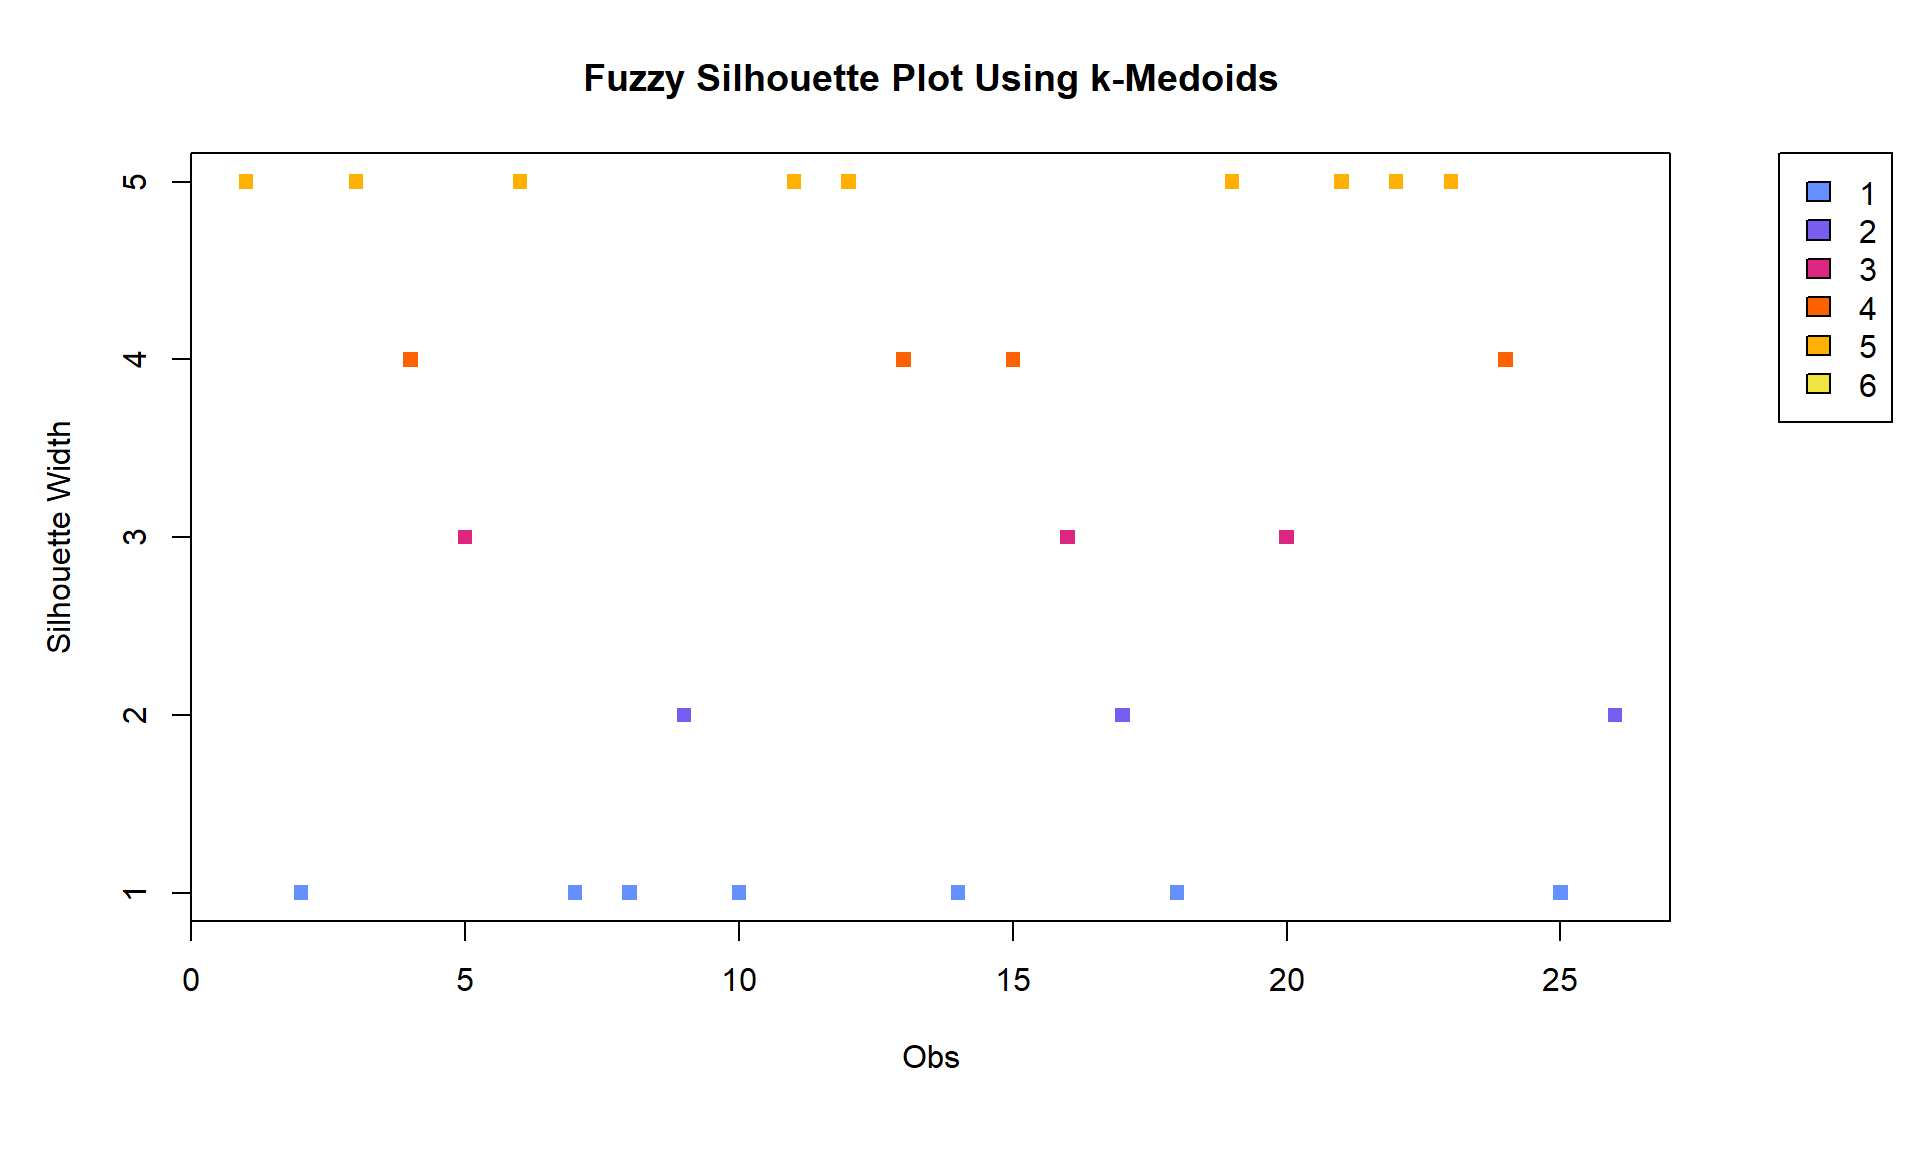
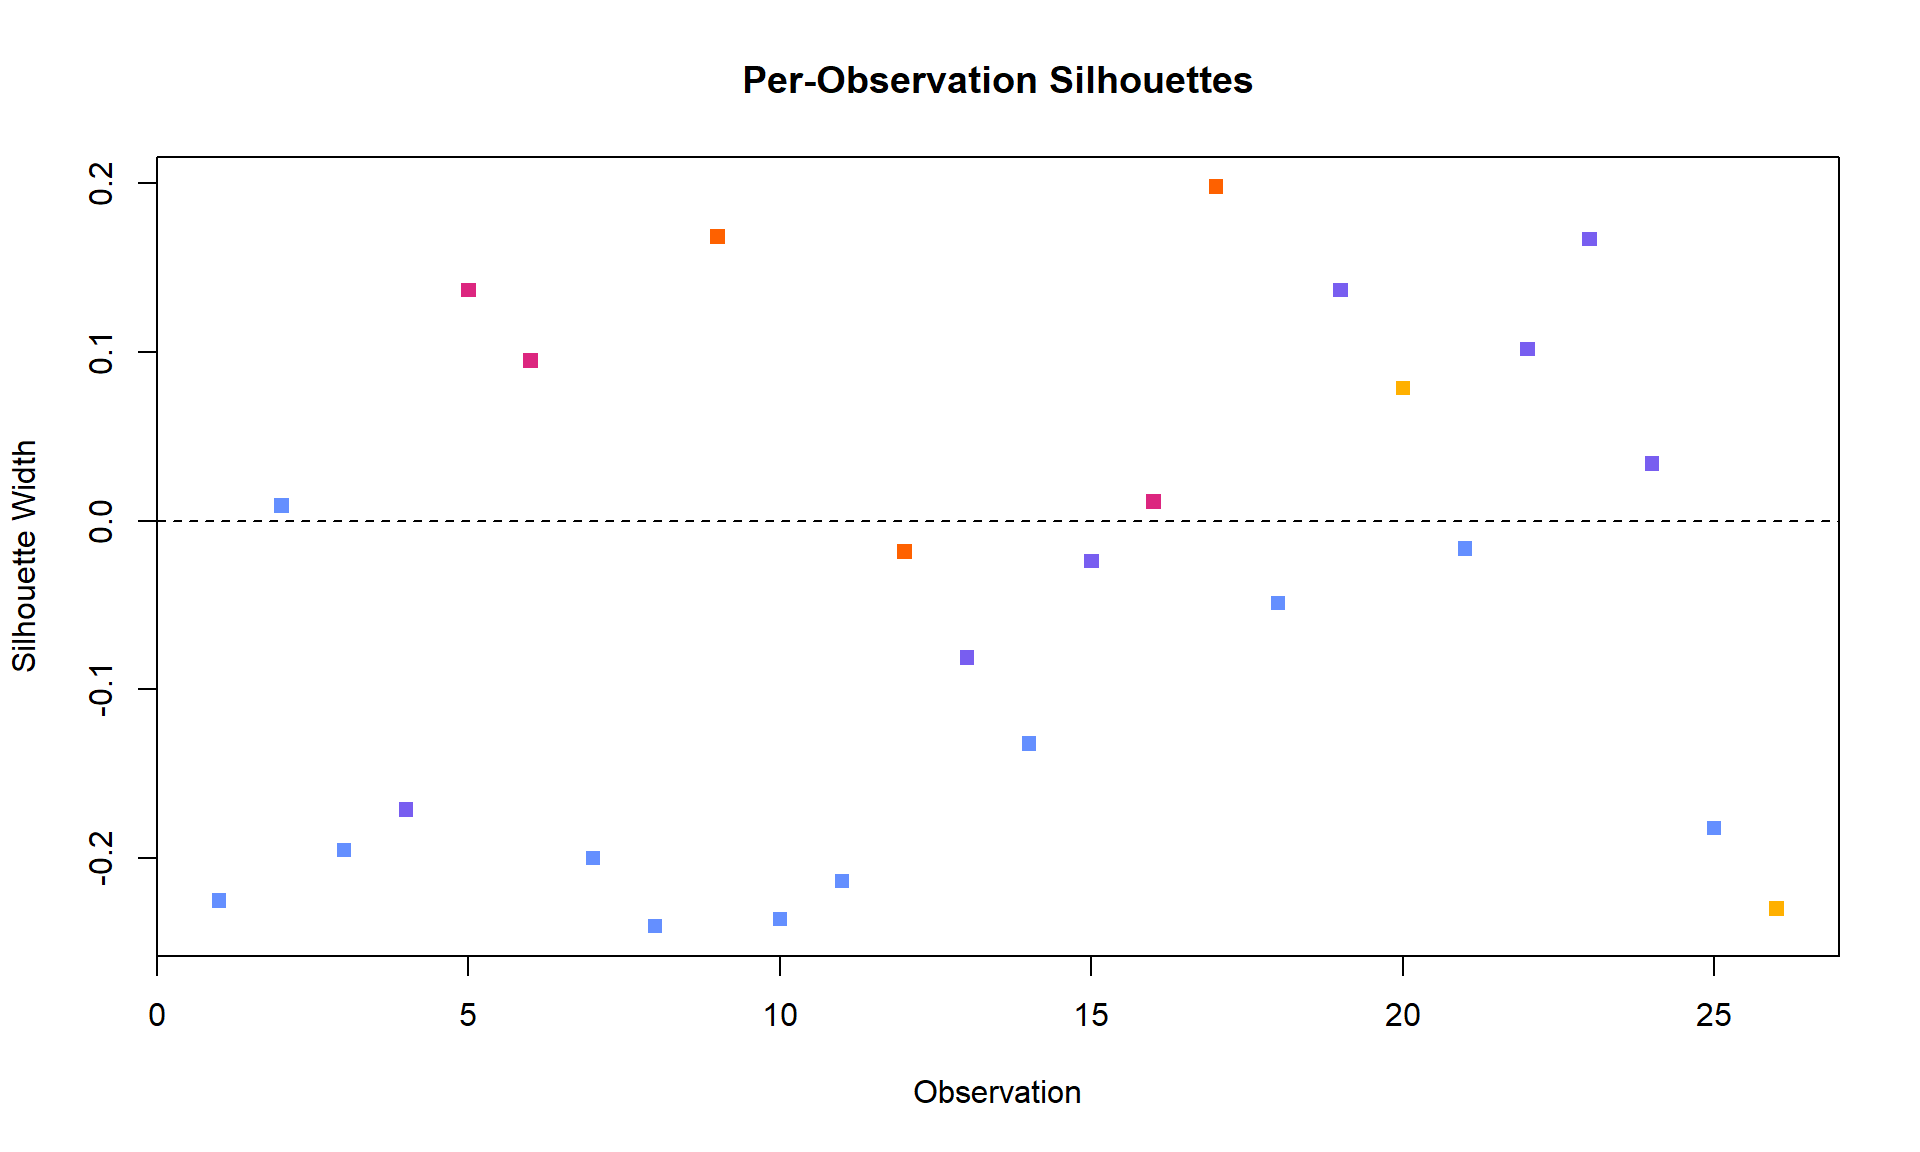
more graph edit

diff --git a/Text/Reports/Report.html b/Text/Reports/Report.html
@@ -4270,8 +4270,7 @@ window.Quarto = {
 <p>Due to the ambiguous clustering, we opted to perform more cluster analyses to determine if this was a good fit.</p>
 <p>MANHATTAN NOT EUCLEDIAN.</p>
 <p><strong>3.3 Cluster Analysis</strong></p>
-<p>H cluster using Manhattan Distance as a measure.</p>
-<p>However we may not want to use wards method as …. {ALICE} … hence Manhatten distance cluster may be a better cluster to consider as it more robust to outliers then Eucledian.</p>
+<p>Hierarchical cluster using Manhattan Distance as a measure. Because more robust to outliers then Eucledian.</p>
 <div class="cell">
 <div class="cell-output-display">
 <div>
@@ -4282,6 +4281,7 @@ window.Quarto = {
 </div>
 </div>
 <p>Something interesting top note is that for both cluster options they both cluster sample’s 15, 10, and 22 this could be because of …</p>
+<p>Cophenetic correlation coefficient 0.825 is pretty dang good. I’m going to remake this using ggplot, should be nicer.</p>
 <p><strong>3.4 Fuzzy Analysis</strong></p>
 <p>As the third and final method of clustering, we performed a Fuzzy analysis.</p>
 <div class="cell">
@@ -4301,59 +4301,59 @@ window.Quarto = {
 <tbody>
 <tr class="odd">
 <td style="text-align: left;">2</td>
-<td style="text-align: right;">0.1762421</td>
-<td style="text-align: right;">0.1240493</td>
-<td style="text-align: right;">0.1539207</td>
-<td style="text-align: right;">0.1552085</td>
-<td style="text-align: right;">0.3905794</td>
+<td style="text-align: right;">0.2478632</td>
+<td style="text-align: right;">0.2182820</td>
+<td style="text-align: right;">0.2164709</td>
+<td style="text-align: right;">0.1744604</td>
+<td style="text-align: right;">0.1429234</td>
 </tr>
 <tr class="even">
 <td style="text-align: left;">3</td>
-<td style="text-align: right;">0.2538351</td>
-<td style="text-align: right;">0.1938810</td>
-<td style="text-align: right;">0.1904545</td>
-<td style="text-align: right;">0.1628005</td>
-<td style="text-align: right;">0.1990289</td>
+<td style="text-align: right;">0.2546501</td>
+<td style="text-align: right;">0.1633232</td>
+<td style="text-align: right;">0.1910660</td>
+<td style="text-align: right;">0.1945034</td>
+<td style="text-align: right;">0.1964572</td>
 </tr>
 <tr class="odd">
 <td style="text-align: left;">5</td>
-<td style="text-align: right;">0.2366273</td>
-<td style="text-align: right;">0.1502489</td>
-<td style="text-align: right;">0.2079111</td>
-<td style="text-align: right;">0.1516484</td>
-<td style="text-align: right;">0.2535644</td>
+<td style="text-align: right;">0.2680416</td>
+<td style="text-align: right;">0.1717810</td>
+<td style="text-align: right;">0.2355131</td>
+<td style="text-align: right;">0.1701957</td>
+<td style="text-align: right;">0.1544686</td>
 </tr>
 <tr class="even">
 <td style="text-align: left;">6</td>
-<td style="text-align: right;">0.2384493</td>
-<td style="text-align: right;">0.1717057</td>
-<td style="text-align: right;">0.1800492</td>
-<td style="text-align: right;">0.2493343</td>
-<td style="text-align: right;">0.1604615</td>
+<td style="text-align: right;">0.2462050</td>
+<td style="text-align: right;">0.2574441</td>
+<td style="text-align: right;">0.1859054</td>
+<td style="text-align: right;">0.1772905</td>
+<td style="text-align: right;">0.1331549</td>
 </tr>
 <tr class="odd">
 <td style="text-align: left;">8</td>
-<td style="text-align: right;">0.2475332</td>
-<td style="text-align: right;">0.1592298</td>
-<td style="text-align: right;">0.2701366</td>
-<td style="text-align: right;">0.1398054</td>
-<td style="text-align: right;">0.1832950</td>
+<td style="text-align: right;">0.2576751</td>
+<td style="text-align: right;">0.1455334</td>
+<td style="text-align: right;">0.2812046</td>
+<td style="text-align: right;">0.1657537</td>
+<td style="text-align: right;">0.1498332</td>
 </tr>
 <tr class="even">
 <td style="text-align: left;">9</td>
-<td style="text-align: right;">0.0000000</td>
-<td style="text-align: right;">0.0000000</td>
-<td style="text-align: right;">0.0000000</td>
-<td style="text-align: right;">0.0000000</td>
-<td style="text-align: right;">1.0000000</td>
+<td style="text-align: right;">0.2329527</td>
+<td style="text-align: right;">0.2045676</td>
+<td style="text-align: right;">0.2626731</td>
+<td style="text-align: right;">0.1678411</td>
+<td style="text-align: right;">0.1319655</td>
 </tr>
 <tr class="odd">
 <td style="text-align: left;">10</td>
-<td style="text-align: right;">0.2590175</td>
-<td style="text-align: right;">0.1720308</td>
-<td style="text-align: right;">0.2255418</td>
-<td style="text-align: right;">0.1717177</td>
-<td style="text-align: right;">0.1716921</td>
+<td style="text-align: right;">0.2475159</td>
+<td style="text-align: right;">0.1640926</td>
+<td style="text-align: right;">0.2155267</td>
+<td style="text-align: right;">0.1643918</td>
+<td style="text-align: right;">0.2084730</td>
 </tr>
 <tr class="even">
 <td style="text-align: left;">11</td>
@@ -4365,59 +4365,59 @@ window.Quarto = {
 </tr>
 <tr class="odd">
 <td style="text-align: left;">12</td>
-<td style="text-align: right;">0.3005691</td>
-<td style="text-align: right;">0.3057668</td>
-<td style="text-align: right;">0.1317308</td>
-<td style="text-align: right;">0.2031781</td>
-<td style="text-align: right;">0.0587552</td>
+<td style="text-align: right;">0.2835971</td>
+<td style="text-align: right;">0.1917054</td>
+<td style="text-align: right;">0.1242925</td>
+<td style="text-align: right;">0.2885014</td>
+<td style="text-align: right;">0.1119036</td>
 </tr>
 <tr class="even">
 <td style="text-align: left;">15</td>
-<td style="text-align: right;">0.2324165</td>
-<td style="text-align: right;">0.1638378</td>
-<td style="text-align: right;">0.1650634</td>
-<td style="text-align: right;">0.2187395</td>
-<td style="text-align: right;">0.2199428</td>
+<td style="text-align: right;">0.2418673</td>
+<td style="text-align: right;">0.2276342</td>
+<td style="text-align: right;">0.1717754</td>
+<td style="text-align: right;">0.1705000</td>
+<td style="text-align: right;">0.1882231</td>
 </tr>
 <tr class="odd">
 <td style="text-align: left;">16</td>
-<td style="text-align: right;">0.2157932</td>
-<td style="text-align: right;">0.1294234</td>
-<td style="text-align: right;">0.1935472</td>
-<td style="text-align: right;">0.1561205</td>
-<td style="text-align: right;">0.3051156</td>
+<td style="text-align: right;">0.2621603</td>
+<td style="text-align: right;">0.1896658</td>
+<td style="text-align: right;">0.2351343</td>
+<td style="text-align: right;">0.1572324</td>
+<td style="text-align: right;">0.1558072</td>
 </tr>
 <tr class="even">
 <td style="text-align: left;">18</td>
-<td style="text-align: right;">0.1769465</td>
-<td style="text-align: right;">0.2217429</td>
-<td style="text-align: right;">0.1586275</td>
-<td style="text-align: right;">0.1607130</td>
-<td style="text-align: right;">0.2819701</td>
+<td style="text-align: right;">0.2033970</td>
+<td style="text-align: right;">0.1847368</td>
+<td style="text-align: right;">0.1823396</td>
+<td style="text-align: right;">0.2548897</td>
+<td style="text-align: right;">0.1746369</td>
 </tr>
 <tr class="odd">
 <td style="text-align: left;">20</td>
 <td style="text-align: right;">0.0000000</td>
-<td style="text-align: right;">0.0000000</td>
-<td style="text-align: right;">0.0000000</td>
 <td style="text-align: right;">1.0000000</td>
+<td style="text-align: right;">0.0000000</td>
+<td style="text-align: right;">0.0000000</td>
 <td style="text-align: right;">0.0000000</td>
 </tr>
 <tr class="even">
 <td style="text-align: left;">23</td>
-<td style="text-align: right;">0.2968902</td>
-<td style="text-align: right;">0.1926895</td>
-<td style="text-align: right;">0.2584459</td>
-<td style="text-align: right;">0.1571009</td>
-<td style="text-align: right;">0.0948735</td>
+<td style="text-align: right;">0.2581919</td>
+<td style="text-align: right;">0.1366234</td>
+<td style="text-align: right;">0.2247586</td>
+<td style="text-align: right;">0.1675732</td>
+<td style="text-align: right;">0.2128529</td>
 </tr>
 <tr class="odd">
 <td style="text-align: left;">24</td>
-<td style="text-align: right;">0.2316784</td>
-<td style="text-align: right;">0.1993960</td>
-<td style="text-align: right;">0.1734716</td>
-<td style="text-align: right;">0.3261780</td>
-<td style="text-align: right;">0.0692759</td>
+<td style="text-align: right;">0.2234546</td>
+<td style="text-align: right;">0.3145997</td>
+<td style="text-align: right;">0.1673139</td>
+<td style="text-align: right;">0.1923180</td>
+<td style="text-align: right;">0.1023137</td>
 </tr>
 <tr class="even">
 <td style="text-align: left;">26</td>
@@ -4430,82 +4430,82 @@ window.Quarto = {
 <tr class="odd">
 <td style="text-align: left;">27</td>
 <td style="text-align: right;">0.0000000</td>
+<td style="text-align: right;">0.0000000</td>
+<td style="text-align: right;">0.0000000</td>
 <td style="text-align: right;">1.0000000</td>
-<td style="text-align: right;">0.0000000</td>
-<td style="text-align: right;">0.0000000</td>
 <td style="text-align: right;">0.0000000</td>
 </tr>
 <tr class="even">
 <td style="text-align: left;">29</td>
-<td style="text-align: right;">0.2414557</td>
-<td style="text-align: right;">0.1952692</td>
-<td style="text-align: right;">0.2222618</td>
-<td style="text-align: right;">0.1709938</td>
-<td style="text-align: right;">0.1700195</td>
+<td style="text-align: right;">0.2378132</td>
+<td style="text-align: right;">0.1684142</td>
+<td style="text-align: right;">0.2189088</td>
+<td style="text-align: right;">0.1923234</td>
+<td style="text-align: right;">0.1825405</td>
 </tr>
 <tr class="odd">
 <td style="text-align: left;">30</td>
-<td style="text-align: right;">0.1842854</td>
-<td style="text-align: right;">0.1629225</td>
-<td style="text-align: right;">0.1708745</td>
-<td style="text-align: right;">0.1958196</td>
-<td style="text-align: right;">0.2860979</td>
+<td style="text-align: right;">0.2153151</td>
+<td style="text-align: right;">0.2287914</td>
+<td style="text-align: right;">0.1996461</td>
+<td style="text-align: right;">0.1903551</td>
+<td style="text-align: right;">0.1658923</td>
 </tr>
 <tr class="even">
 <td style="text-align: left;">31</td>
-<td style="text-align: right;">0.2012858</td>
-<td style="text-align: right;">0.1822222</td>
-<td style="text-align: right;">0.2281437</td>
-<td style="text-align: right;">0.1722743</td>
-<td style="text-align: right;">0.2160739</td>
+<td style="text-align: right;">0.1968916</td>
+<td style="text-align: right;">0.1685134</td>
+<td style="text-align: right;">0.2231631</td>
+<td style="text-align: right;">0.1782442</td>
+<td style="text-align: right;">0.2331877</td>
 </tr>
 <tr class="odd">
 <td style="text-align: left;">32</td>
-<td style="text-align: right;">0.2189416</td>
-<td style="text-align: right;">0.1525755</td>
-<td style="text-align: right;">0.1727286</td>
-<td style="text-align: right;">0.1757170</td>
-<td style="text-align: right;">0.2800373</td>
+<td style="text-align: right;">0.2473063</td>
+<td style="text-align: right;">0.1984818</td>
+<td style="text-align: right;">0.1951062</td>
+<td style="text-align: right;">0.1723422</td>
+<td style="text-align: right;">0.1867636</td>
 </tr>
 <tr class="even">
 <td style="text-align: left;">33</td>
-<td style="text-align: right;">0.1755171</td>
-<td style="text-align: right;">0.1870261</td>
-<td style="text-align: right;">0.1813223</td>
-<td style="text-align: right;">0.2093921</td>
-<td style="text-align: right;">0.2467425</td>
+<td style="text-align: right;">0.1901525</td>
+<td style="text-align: right;">0.2268522</td>
+<td style="text-align: right;">0.1964418</td>
+<td style="text-align: right;">0.2026213</td>
+<td style="text-align: right;">0.1839323</td>
 </tr>
 <tr class="odd">
 <td style="text-align: left;">34</td>
-<td style="text-align: right;">0.1919549</td>
-<td style="text-align: right;">0.1716732</td>
-<td style="text-align: right;">0.1696406</td>
-<td style="text-align: right;">0.2253940</td>
-<td style="text-align: right;">0.2413373</td>
+<td style="text-align: right;">0.2114673</td>
+<td style="text-align: right;">0.2483055</td>
+<td style="text-align: right;">0.1868847</td>
+<td style="text-align: right;">0.1891239</td>
+<td style="text-align: right;">0.1642186</td>
 </tr>
 <tr class="even">
 <td style="text-align: left;">35</td>
-<td style="text-align: right;">0.2374526</td>
-<td style="text-align: right;">0.2188509</td>
-<td style="text-align: right;">0.1665412</td>
-<td style="text-align: right;">0.3056127</td>
-<td style="text-align: right;">0.0715426</td>
+<td style="text-align: right;">0.2164986</td>
+<td style="text-align: right;">0.2786439</td>
+<td style="text-align: right;">0.1518448</td>
+<td style="text-align: right;">0.1995384</td>
+<td style="text-align: right;">0.1534743</td>
 </tr>
 <tr class="odd">
 <td style="text-align: left;">36</td>
-<td style="text-align: right;">0.2830368</td>
-<td style="text-align: right;">0.2016847</td>
-<td style="text-align: right;">0.2062916</td>
-<td style="text-align: right;">0.2095130</td>
-<td style="text-align: right;">0.0994738</td>
+<td style="text-align: right;">0.2641219</td>
+<td style="text-align: right;">0.1955117</td>
+<td style="text-align: right;">0.1925055</td>
+<td style="text-align: right;">0.1882065</td>
+<td style="text-align: right;">0.1596544</td>
 </tr>
 <tr class="even">
 <td style="text-align: left;">37</td>
-<td style="text-align: right;">0.2418423</td>
-<td style="text-align: right;">0.3146300</td>
-<td style="text-align: right;">0.1747499</td>
-<td style="text-align: right;">0.1910217</td>
-<td style="text-align: right;">0.0777561</td>
+<td style="text-align: right;">0.0000000</td>
+<td style="text-align: right;">0.0000000</td>
+<td style="text-align: right;">0.0000000</td>
+<td style="text-align: right;">0.0000000</td>
+<td style="text-align: right;">1.0000000</td>
 </tr>
 </tbody>
 </table>
@@ -4514,13 +4514,13 @@ window.Quarto = {
 <pre><code>The default value alpha=1 has been set </code></pre>
 </div>
 <div class="cell-output cell-output-stdout">
-<pre><code>     cluster neighbor   sil_width
-[1,]       5        4  0.27791998
-[2,]       1        3  0.03192621
-[3,]       5        3 -0.20726380
-[4,]       4        2  0.16927964
-[5,]       3        1 -0.08012135
-[6,]       5        3  0.12904338</code></pre>
+<pre><code>     cluster neighbor    sil_width
+[1,]       1        2 -0.225088173
+[2,]       1        3  0.009173198
+[3,]       1        3 -0.195138395
+[4,]       2        3 -0.171065838
+[5,]       3        1  0.136928460
+[6,]       3        2  0.095024031</code></pre>
 </div>
 <div class="cell-output-display">
 <div>
@@ -4543,10 +4543,27 @@ window.Quarto = {
 </figure>
 </div>
 </div>
+<div class="cell-output-display">
+<div>
+<figure class="figure">
+<p><img src="Report_files/figure-html/fuzzy-4.png" class="img-fluid figure-img" width="960"></p>
+</figure>
 </div>
+</div>
+<div class="cell-output-display">
+<div>
+<figure class="figure">
+<p><img src="Report_files/figure-html/fuzzy-5.png" class="img-fluid figure-img" width="960"></p>
+</figure>
+</div>
+</div>
+</div>
+<p>The graph of Fuzzy Membership Certainty shows that the majority of our observations are near ambiguous in there assigned groupings.</p>
+<p>Picks by median centrality, determines closest group and percentage it belongs in said group.</p>
 </section>
 <section id="results" class="level2">
 <h2 class="anchored" data-anchor-id="results">5. Results</h2>
+<p>We are unable to make direct</p>
 <p><span class="citation" data-cites="Caponetti2017-fd">Caponetti, Armetta, Brusca, et al. (<a href="#ref-Caponetti2017-fd" role="doc-biblioref">2017</a>)</span> determined that the quantity of sample was attributed to error generation. Both samples S38 and S08 had respective quantities 12.3mg and 16.0mg. The average amount of material sampled was reported at ~20mg.</p>
 <p>The original study only had access to 38/40 ingots as they were on loan to another institute. This is an extension of that analysis, increasing the sample size at this point of the data analysis would inflate the false positive rate.</p>
 </section>
